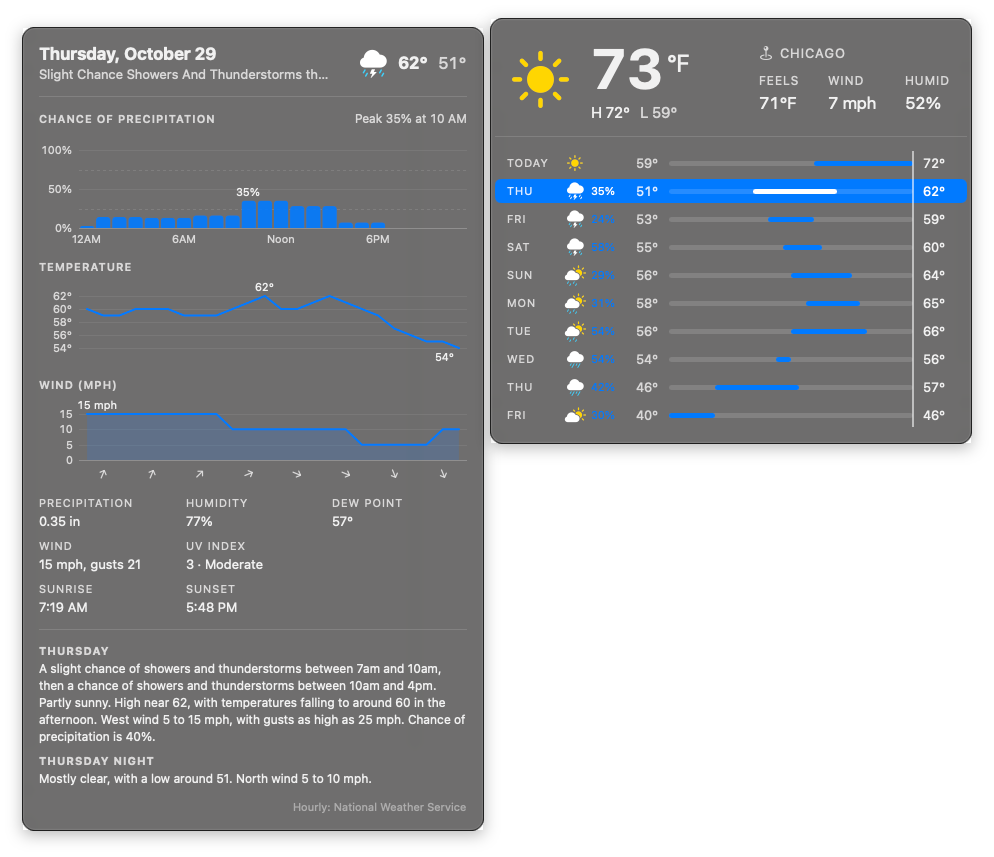
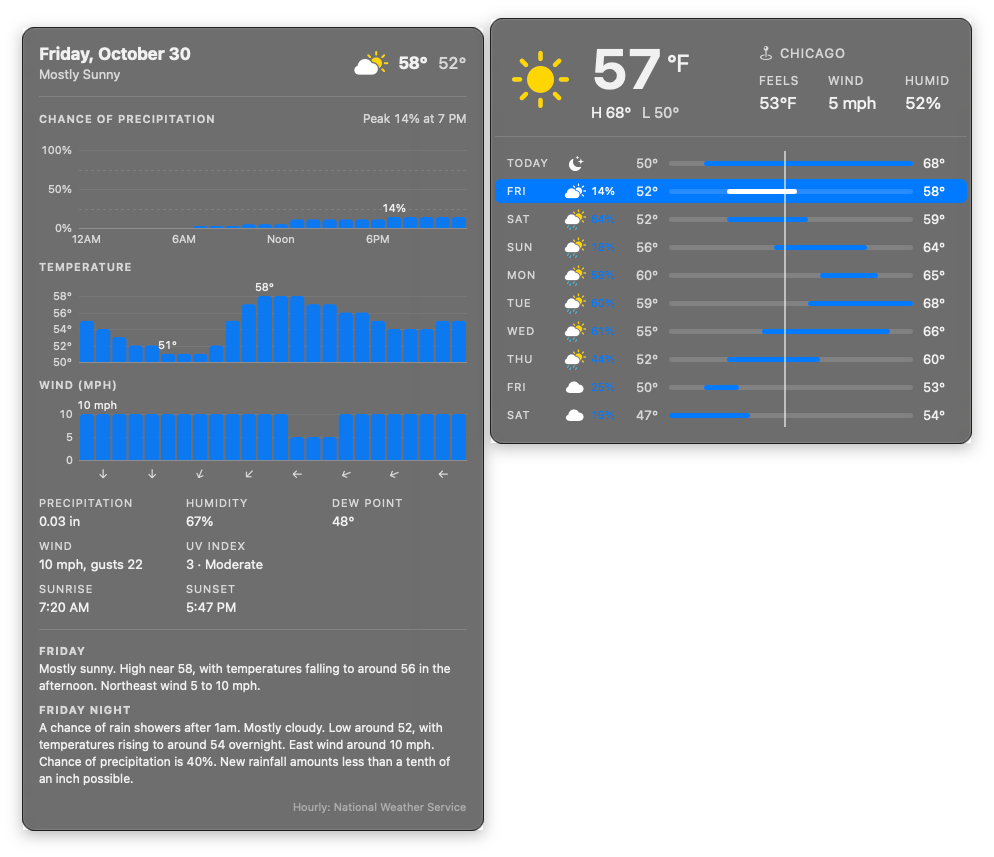
Draw the weather pane's temperature and wind as bars
The day detail pane drew precipitation as hourly bars but temperature and
wind as lines, so the three charts on one shared hour axis read as two
different kinds of chart. Temperature and wind are now bars too, styled
like the precipitation bars: each hour's bar rises from the bottom
gridline, today's past hours are faint, and the hovered hour is
highlighted with its value labelled above it in place of the line's dot.

The README's weather screenshot is retaken with the same made-up current
conditions and Chicago location as before.

Claude-Session: https://claude.ai/code/session_01ATosVHEFmSt5N9oAw6Az3s

diff --git a/Sources/MenuWidgets/Weather/DayDetailPane.swift b/Sources/MenuWidgets/Weather/DayDetailPane.swift
@@ -2,15 +2,15 @@ import SwiftUI
 import WidgetsCore
 
 /// The card beside the forecast while a day row is hovered: the day's hourly
-/// chance of precipitation as bars, hourly temperature and wind lines, rain
+/// chance of precipitation, temperature and wind as bars, rain
 /// total, wind, UV, humidity, dew point and sun times, then NWS's own day and
 /// night narrative.
 struct DayDetailPane: View {
   @ObservedObject var service: WeatherService
   @ObservedObject var state: WeatherPanelState
 
-  /// The hour under the pointer in any chart, -1 for none; the bars, both
-  /// lines and the readout all follow it. (Kept on the state object: the
+  /// The hour under the pointer in any chart, -1 for none; all three charts
+  /// and the readout follow it. (Kept on the state object: the
   /// Command Line Tools ship no SwiftUIMacros plugin, so no @State.)
   private var hoverHour: Int { state.hoverHour }
 
@@ -65,15 +65,15 @@ struct DayDetailPane: View {
       }
 
       if let tempRange {
-        HourLine(title: "TEMPERATURE", values: tempValues, range: tempRange, suffix: "°", tickSuffix: "°",
-          labelLow: true, fill: false, chartHeight: 84, ctx: ctx)
+        HourBars(title: "TEMPERATURE", values: tempValues, range: tempRange, suffix: "°", tickSuffix: "°",
+          labelLow: true, chartHeight: 84, ctx: ctx)
           .onContinuousHover { hover("temp", $0) }
       }
 
       if let windRange {
         VStack(alignment: .leading, spacing: 4) {
-          HourLine(title: "WIND (\(windUnit.uppercased()))", values: windValues, range: windRange,
-            suffix: " \(windUnit)", tickSuffix: "", labelLow: false, fill: true, chartHeight: 64, ctx: ctx)
+          HourBars(title: "WIND (\(windUnit.uppercased()))", values: windValues, range: windRange,
+            suffix: " \(windUnit)", tickSuffix: "", labelLow: false, chartHeight: 64, ctx: ctx)
             .onContinuousHover { hover("wind", $0) }
           windArrows(slots, imperial: imperial, ctx: ctx)
         }
@@ -359,18 +359,17 @@ struct RainChart: View {
   }
 }
 
-/// An hourly line on the rain chart's hour axis: a section title, then the
-/// line over the range's gridlines (labelled in the left gutter), its
-/// extremes labelled. Past hours (today) are faint; hours no source covers
-/// break the line. `fill` shades down to the floor, for zero-based scales.
-struct HourLine: View {
+/// Hourly bars on the rain chart's hour axis: a section title, then a bar
+/// per hour rising from the range's floor over its gridlines (labelled in
+/// the left gutter), the extremes labelled above their bars. Past hours
+/// (today) are faint; hours no source covers have no bar.
+struct HourBars: View {
   let title: String
   let values: [Double?]
   let range: Weather.ValueRange
   let suffix: String
   let tickSuffix: String
   let labelLow: Bool
-  let fill: Bool
   let chartHeight: CGFloat
   let ctx: ChartContext
 
@@ -378,13 +377,15 @@ struct HourLine: View {
   var slotW: CGFloat { DayDetailPane.slotW }
   var width: CGFloat { DayDetailPane.contentW }
   var padTop: CGFloat { 16 }
-  var padBottom: CGFloat { fill ? 2 : 16 }
+  var padBottom: CGFloat { 2 }
 
   func value(_ h: Int) -> Double? { h >= 0 && h < values.count ? values[h] : nil }
   func xAt(_ h: Int) -> CGFloat { plotX + slotW * (CGFloat(h) + 0.5) }
   func yAt(_ v: Double) -> CGFloat {
     padTop + (1 - CGFloat((v - range.min) / range.span)) * (chartHeight - padTop - padBottom)
   }
+  // An hour at the floor still shows as a sliver.
+  func barTop(_ v: Double) -> CGFloat { min(yAt(v), yAt(range.min) - 2) }
 
   var body: some View {
     VStack(alignment: .leading, spacing: 6) {
@@ -401,12 +402,12 @@ struct HourLine: View {
             .position(x: (plotX - 6) / 2, y: yAt(t))
         }
 
-        ForEach(extremes(), id: \.hour) { e in
-          if let v = value(e.hour) {
+        ForEach(extremes(), id: \.self) { h in
+          if let v = value(h) {
             Text("\(Weather.jsRound(v))\(suffix)")
               .font(.system(size: WeatherStyle.caption).monospacedDigit())
               .fixedSize()
-              .position(x: min(max(xAt(e.hour), plotX + 18), width - 22), y: e.above ? yAt(v) - 9 : yAt(v) + 9)
+              .position(x: min(max(xAt(h), plotX + 18), width - 22), y: barTop(v) - 9)
           }
         }
       }
@@ -415,8 +416,10 @@ struct HourLine: View {
     }
   }
 
-  /// The highest hour is labelled, and the lowest when labelLow.
-  private func extremes() -> [(hour: Int, above: Bool)] {
+  /// The hovered hour is labelled, else the highest, and the lowest too
+  /// when labelLow.
+  private func extremes() -> [Int] {
+    if ctx.hoverHour >= 0 { return value(ctx.hoverHour) == nil ? [] : [ctx.hoverHour] }
     var hi = -1, lo = -1
     for h in 0..<24 {
       guard let v = value(h) else { continue }
@@ -424,54 +427,33 @@ struct HourLine: View {
       if lo < 0 || v < value(lo)! { lo = h }
     }
     if hi < 0 { return [] }
-    return hi == lo || !labelLow ? [(hi, true)] : [(hi, true), (lo, false)]
+    return hi == lo || !labelLow ? [hi] : [hi, lo]
   }
 
   private func draw(_ g: GraphicsContext, _ size: CGSize) {
     for t in range.ticks {
-      let floor = fill && t == range.min
       var p = Path()
       let y = yAt(t).rounded() + 0.5
       p.move(to: CGPoint(x: plotX, y: y))
       p.addLine(to: CGPoint(x: size.width, y: y))
-      g.stroke(p, with: .color(.primary.opacity(floor ? 0.25 : 0.08)), lineWidth: 1)
+      g.stroke(p, with: .color(.primary.opacity(t == range.min ? 0.25 : 0.08)), lineWidth: 1)
     }
 
-    // One stroke per unbroken run of hours, shaded to the floor first when filling.
-    func runs(_ from: Int, _ to: Int, _ color: Color, _ area: Color?) {
-      var h = from
-      while h <= to {
-        while h <= to && value(h) == nil { h += 1 }
-        if h > to { break }
-        let start = h
-        while h + 1 <= to && value(h + 1) != nil { h += 1 }
-        let end = h
-        h += 1
-
-        if let area {
-          let base = yAt(range.min)
-          var a = Path()
-          a.move(to: CGPoint(x: xAt(start), y: base))
-          for k in start...end { a.addLine(to: CGPoint(x: xAt(k), y: yAt(value(k)!))) }
-          a.addLine(to: CGPoint(x: xAt(end), y: base))
-          a.closeSubpath()
-          g.fill(a, with: .color(area))
-        }
-        var line = Path()
-        line.move(to: CGPoint(x: xAt(start), y: yAt(value(start)!)))
-        for k in start...end where k > start { line.addLine(to: CGPoint(x: xAt(k), y: yAt(value(k)!))) }
-        if start == end { line.addLine(to: CGPoint(x: xAt(start) + 0.01, y: yAt(value(start)!))) }
-        g.stroke(line, with: .color(color), style: StrokeStyle(lineWidth: 2, lineCap: .round, lineJoin: .round))
+    let base = yAt(range.min)
+    let gap: CGFloat = 2
+    for h in 0..<24 {
+      guard let v = value(h) else { continue }
+      let w = max(1, slotW - gap)
+      let top = barTop(v)
+      let rect = CGRect(x: plotX + slotW * CGFloat(h) + (slotW - w) / 2, y: top, width: w, height: base - top)
+      let r = min(3, w / 2)
+      let shape = UnevenRoundedRectangle(topLeadingRadius: r, topTrailingRadius: r).path(in: rect)
+      if ctx.isPast(h) {
+        g.fill(shape, with: .color(.primary.opacity(ctx.hoverHour == h ? 0.5 : 0.25)))
+      } else {
+        let opacity = ctx.hoverHour == h ? 1 : (ctx.hoverHour >= 0 ? 0.6 : 0.9)
+        g.fill(shape, with: .color(.accentColor.opacity(opacity)))
       }
-    }
-    let split = ctx.isToday ? max(0, min(23, ctx.nowHour)) : 0
-    if split > 0 { runs(0, split, .primary.opacity(0.3), fill ? .primary.opacity(0.06) : nil) }
-    runs(split, 23, .accentColor, fill ? .accentColor.opacity(0.16) : nil)
-
-    if ctx.hoverHour >= 0, let v = value(ctx.hoverHour) {
-      let dot = Path(ellipseIn: CGRect(x: xAt(ctx.hoverHour) - 4.5, y: yAt(v) - 4.5, width: 9, height: 9))
-      g.fill(dot, with: .color(.accentColor))
-      g.stroke(dot, with: .color(Color(nsColor: .windowBackgroundColor)), lineWidth: 2)
     }
   }
 }

diff --git a/README.md b/README.md
@@ -100,7 +100,7 @@ Weather are shown with a row hovered, and its detail pane beside the panel.
 
 ### Weather
 
-<img src="Assets/screenshots/weather.png" alt="The Weather panel: current conditions and a ten-day forecast, with Thursday's hourly chance of rain, temperature and wind beside it">
+<img src="Assets/screenshots/weather.png" alt="The Weather panel: current conditions and a ten-day forecast, with Friday's hourly chance of rain, temperature and wind beside it">
 
 ### Reminders
 
